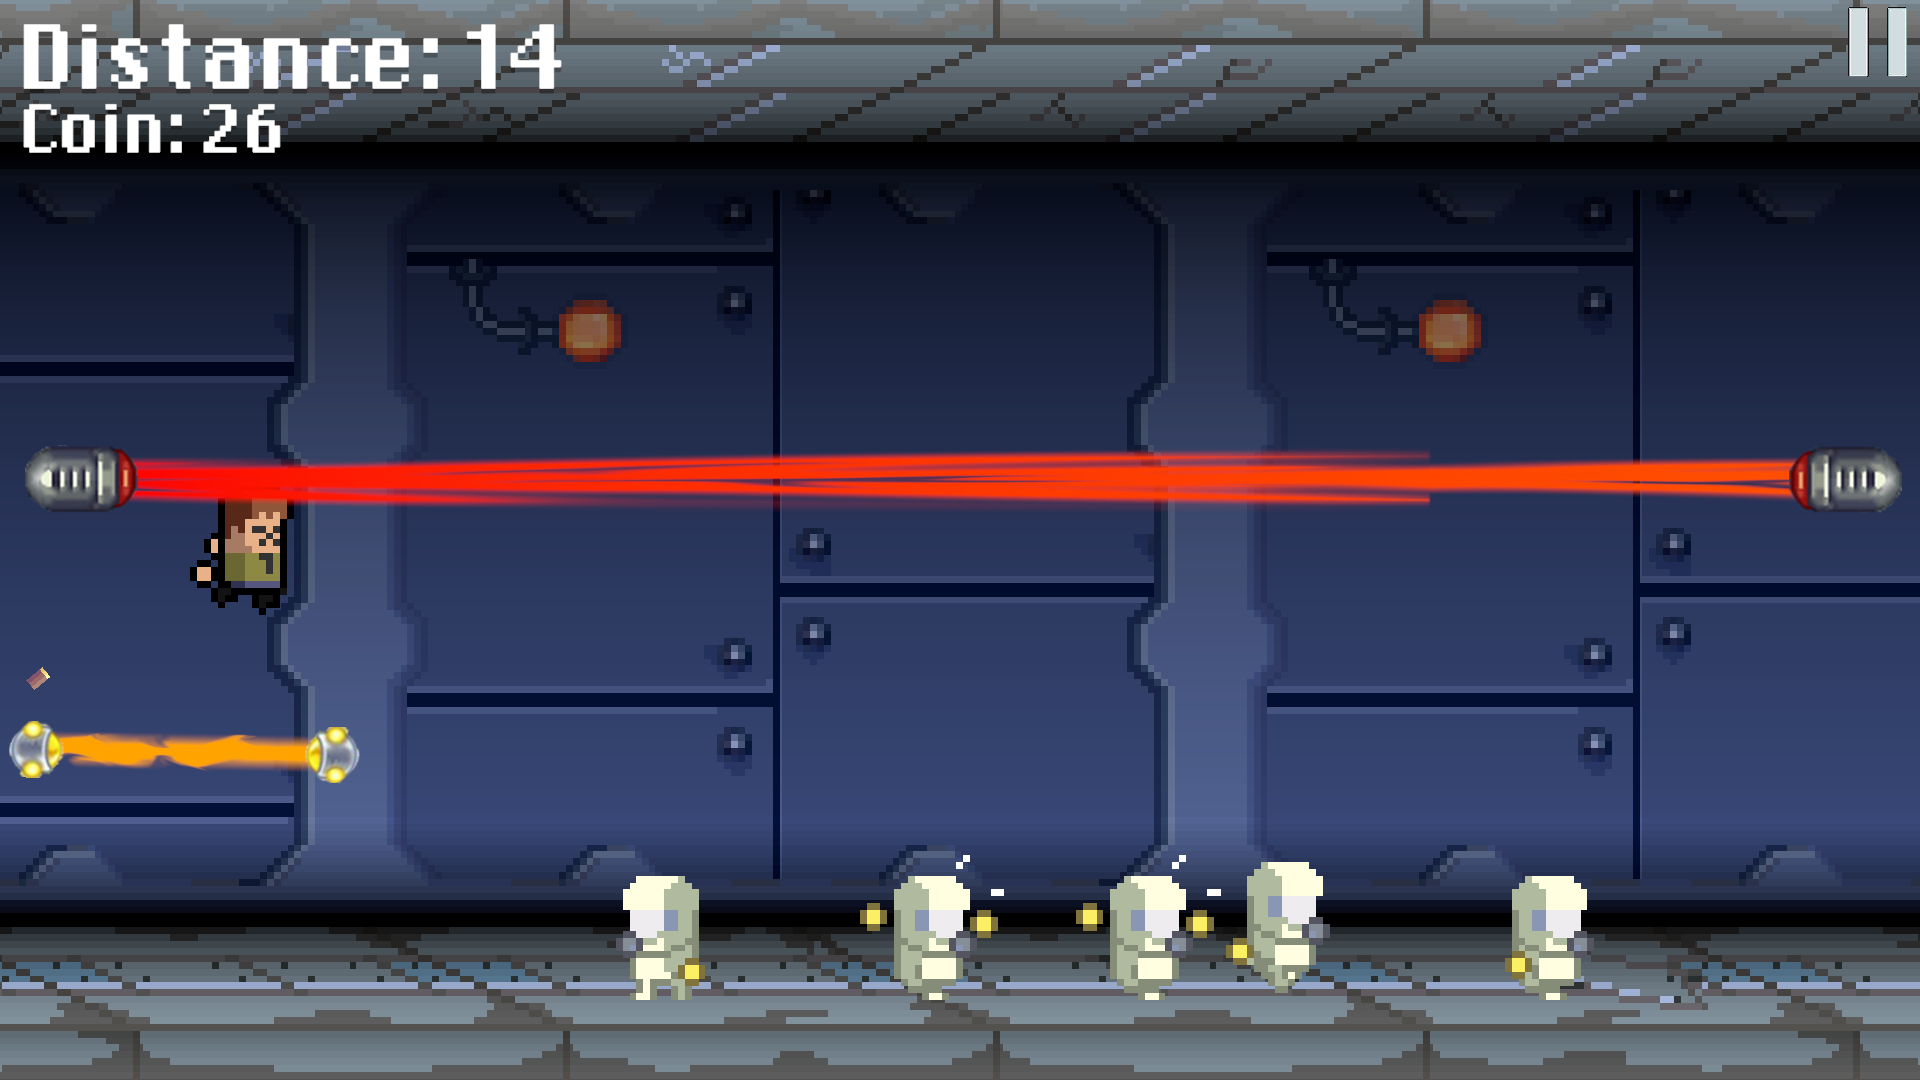
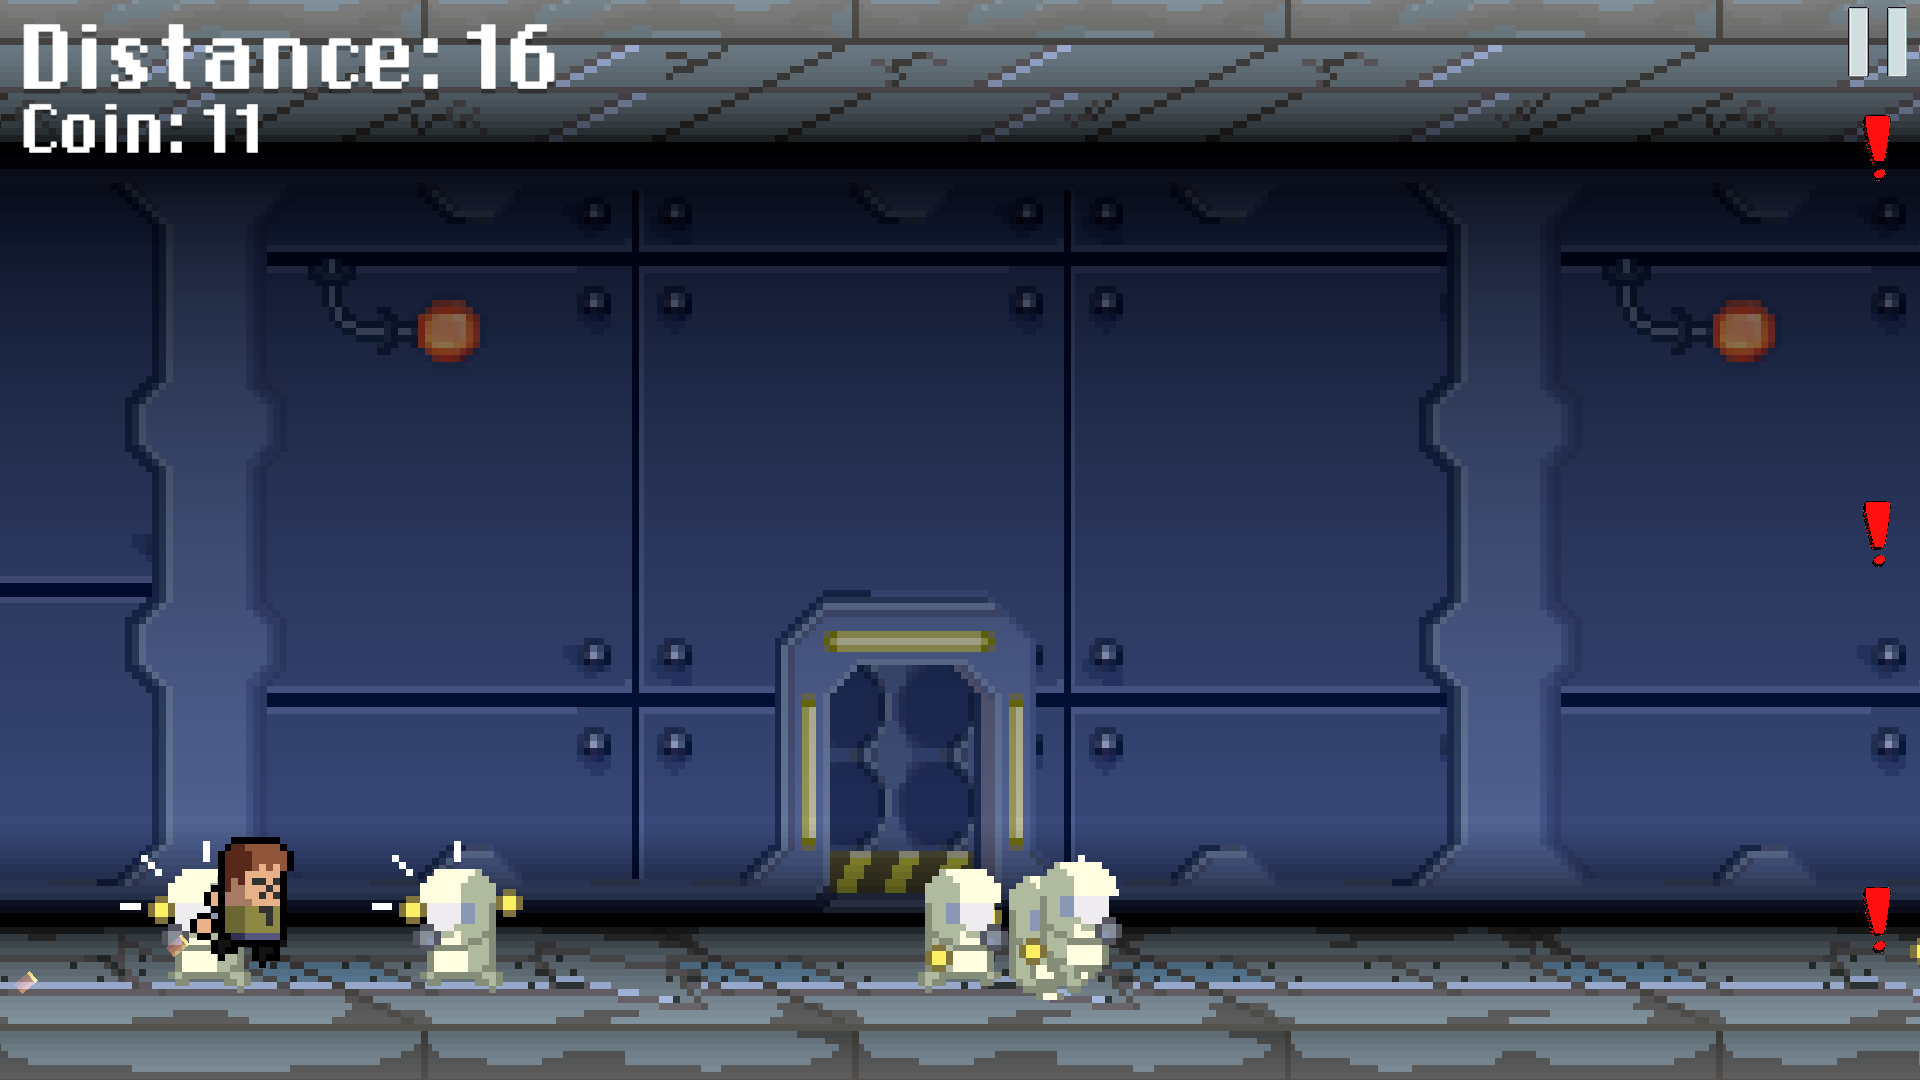
Finished Scientists

diff --git a/NotJetpackJoyrideProject/Assets/Scripts/NPC/scientist.cs b/NotJetpackJoyrideProject/Assets/Scripts/NPC/scientist.cs
@@ -10,6 +10,7 @@ public class scientist : MonoBehaviour
     private Rigidbody2D rb;
 
     bool playerIsInDetectionRange = false;
+    bool isDead = false;
     int playerLayer;
     void Start()
     {
@@ -21,6 +22,11 @@ public class scientist : MonoBehaviour
 
     void Update()
     {
+        if (isDead)
+        {
+            rb.velocity = new Vector2(speed, rb.velocity.y);
+            return;
+        }
         if (speed != 0)
         {
             float moveSpeed = playerIsInDetectionRange ? speed : -speed;
@@ -50,27 +56,30 @@ public class scientist : MonoBehaviour
     }
     private void CheckPlayerFlying(Collider2D other)
     {
-
-        if (!other.gameObject.GetComponent<PlayerController>().GetPlayerIsOnGround())
+        if (!isDead)
         {
-            if (!playerIsInDetectionRange)
+            if (!other.gameObject.GetComponent<PlayerController>().GetPlayerIsOnGround())
             {
-                playerIsInDetectionRange = true;
-                animator.SetBool("DetectedPlayer", true);
-                ChangeDirection();
+                if (!playerIsInDetectionRange)
+                {
+                    playerIsInDetectionRange = true;
+                    animator.SetBool("DetectedPlayer", true);
+                    ChangeDirection();
+                }
             }
-        }
-        else
-        {
-            playerIsInDetectionRange = false;
-            animator.SetBool("DetectedPlayer", false);
+            else
+            {
+                playerIsInDetectionRange = false;
+                animator.SetBool("DetectedPlayer", false);
+            }
         }
     }
     public void HandleDeath()
     {
         Debug.Log("npc is dead");
         animator.SetBool("HasBeenHited", true);
-
+        isDead = true;
+        speed = -10;
     }
 
     private void ChangeDirection()

diff --git a/NotJetpackJoyrideProject/Assets/Scripts/Rocket/RocketSpawner.cs b/NotJetpackJoyrideProject/Assets/Scripts/Rocket/RocketSpawner.cs
@@ -5,6 +5,13 @@ public class RocketSpawner : MonoBehaviour
 {
     private static RocketSpawner instance = null;
     [SerializeField] GameObject rocket;
+
+    private Vector3 startPosition;
+
+    private void Start()
+    {
+        startPosition = transform.position;
+    }
     private RocketSpawner()
     {
     }
@@ -23,6 +30,7 @@ public class RocketSpawner : MonoBehaviour
 
     private void Update()
     {
+        //transform.position = startPosition;
         if(Input.GetKeyDown(KeyCode.F))
         {
             SpawnTwoStaticRockets();

diff --git a/NotJetpackJoyrideProject/Assets/Scripts/NPC/BulletHitNpc.cs b/NotJetpackJoyrideProject/Assets/Scripts/NPC/BulletHitNpc.cs
@@ -9,10 +9,10 @@ public class BulletHitNpc : MonoBehaviour
     {
         Debug.Log("Collided with: " + collision.gameObject.name);
 
-        if (collision.gameObject.layer == 10)
+        if (collision.layer == 12)
         {
             Debug.Log("Scientist shot");
-            gameObject.GetComponent<scientist>().HandleDeath();
+            collision.GetComponent<scientist>().HandleDeath();
         }
     }
 }

diff --git a/NotJetpackJoyrideProject/Assets/Scripts/Coin/ObstacleKillBox.cs b/NotJetpackJoyrideProject/Assets/Scripts/Coin/ObstacleKillBox.cs
@@ -14,6 +14,10 @@ public class ObstacleKillBox : MonoBehaviour
         {
             Destroy(collision.transform.parent.gameObject);
         }
+        else if (collision.gameObject.CompareTag("Scientist"))
+        {
+            Destroy(collision.gameObject);
+        }
         else if (collision.gameObject.CompareTag("Background"))
         {
             backgroundController.CreateCell();
